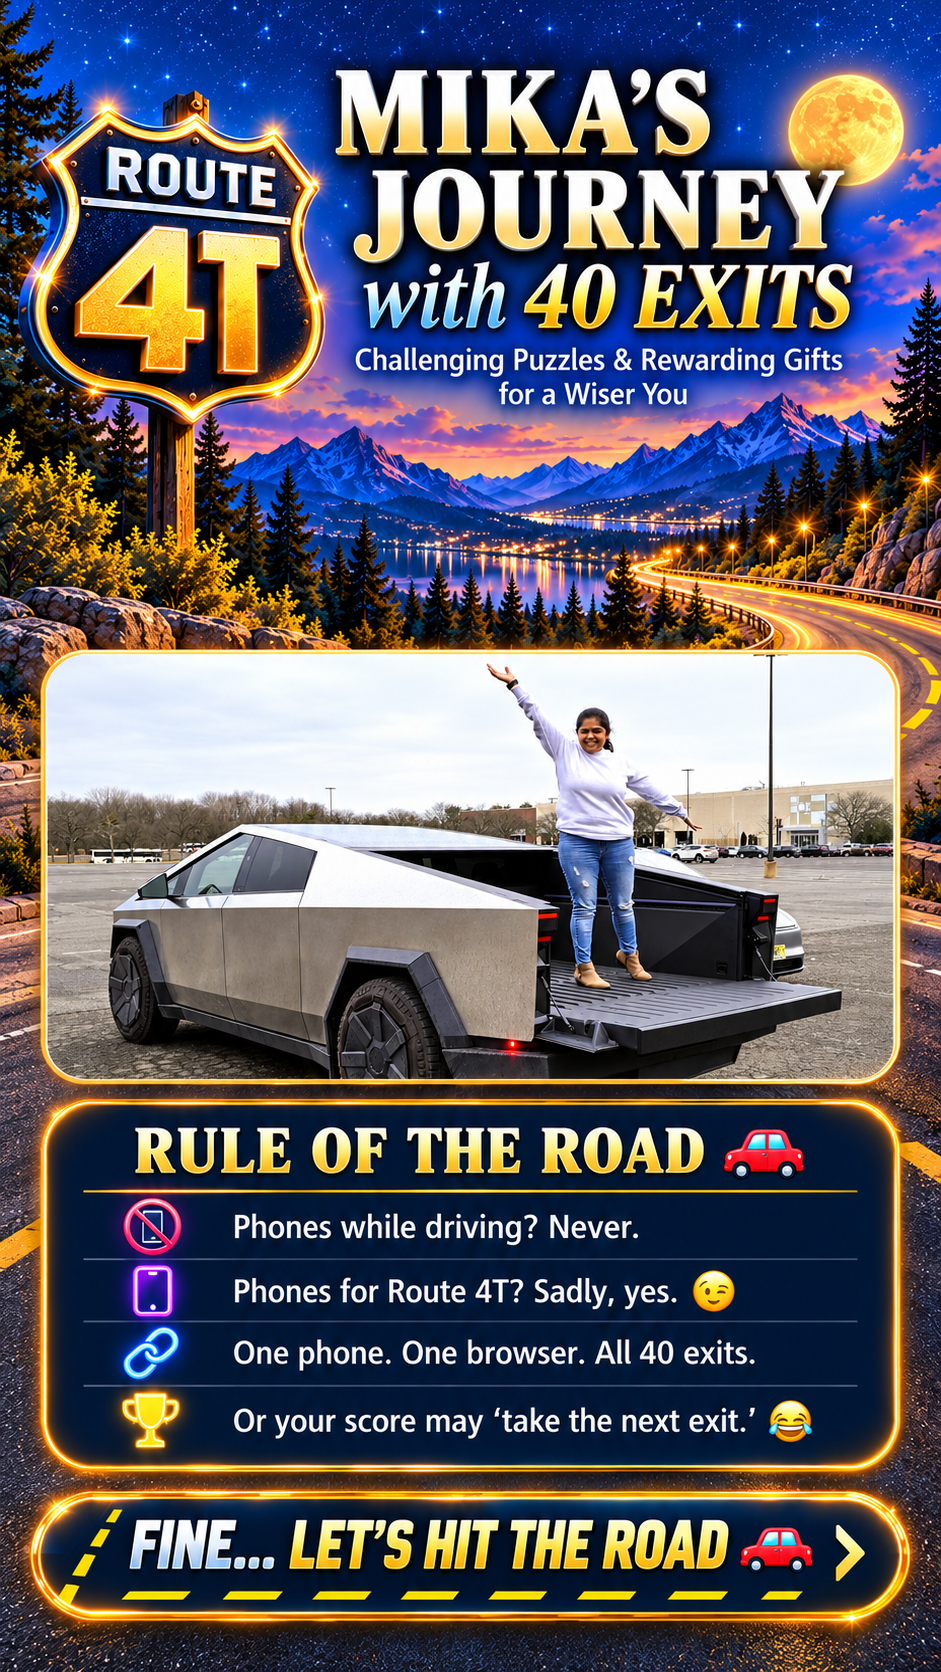
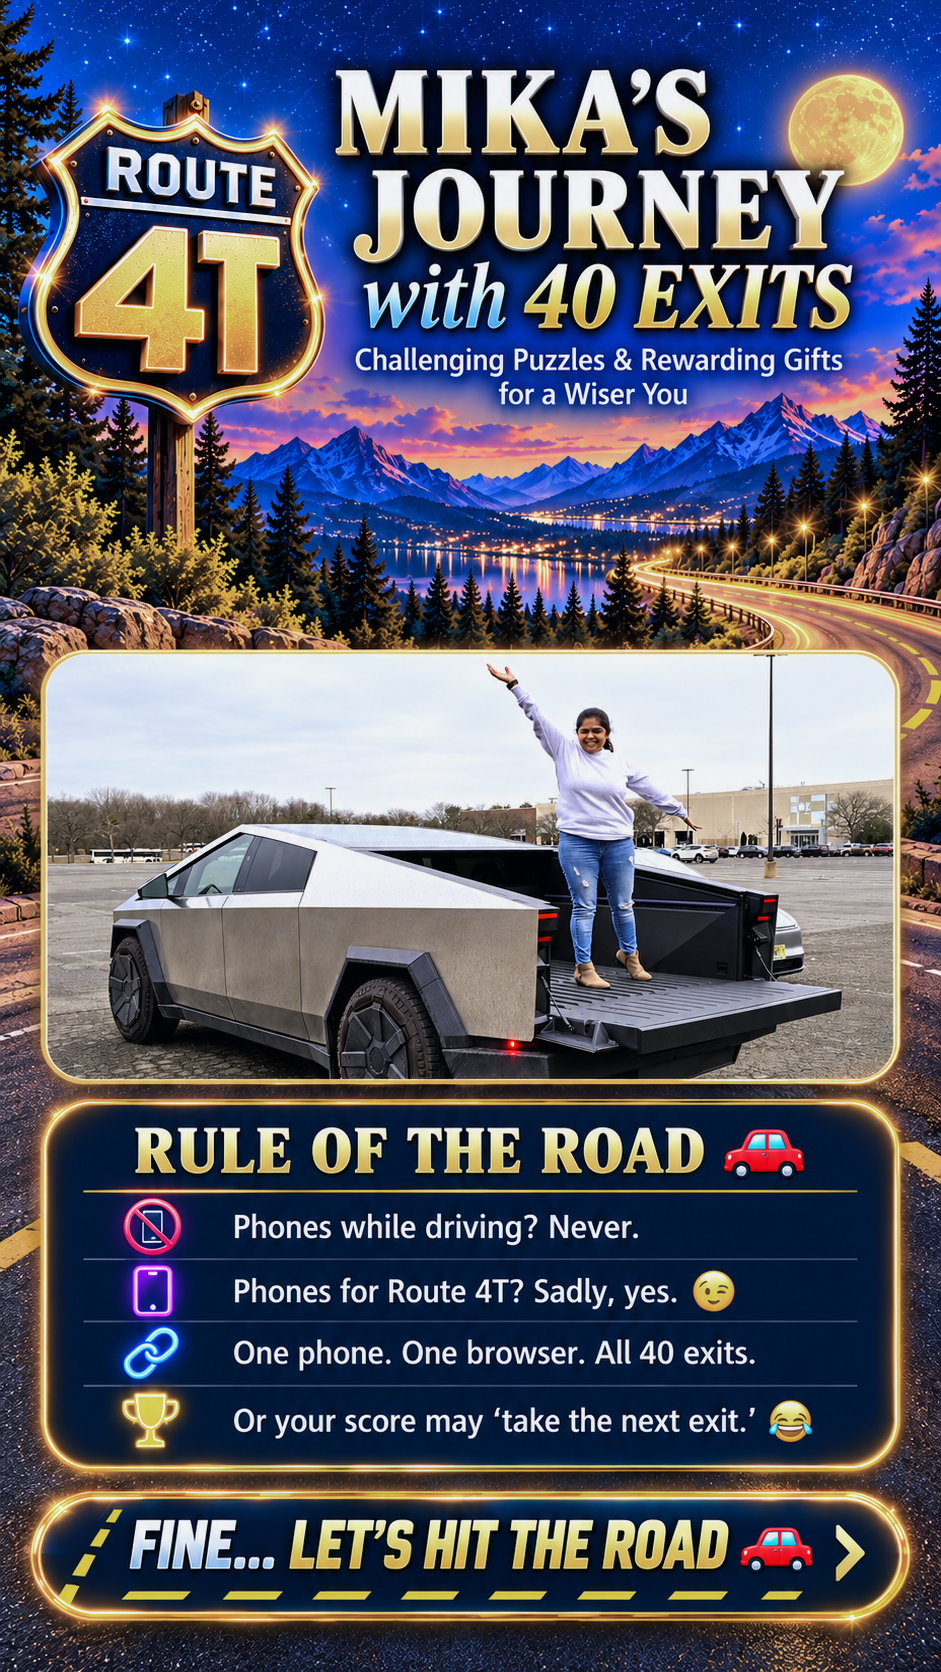
Add files via upload

diff --git a/app.js b/app.js
@@ -1,5 +1,5 @@
 
-const QA_SHOW_ALL_EXITS = true; // v2.29 QA: intentionally exposes EXIT 0–40 for full production-URL testing. Disable for launch.
+const QA_SHOW_ALL_EXITS = true; // v2.30 QA: intentionally exposes EXIT 0–40 for full production-URL testing. Disable for launch.
 const MAX_ATTEMPTS = 3;
 const FINAL_EXIT = 40;
 
@@ -823,11 +823,11 @@ function positionKeyboardUI(){
      p.style.top=(viewportTop+safeGap)+"px";
      requestAnimationFrame(()=>{
        const h=Math.min(p.offsetHeight,maxH);
-       const isFirstWrong=p.dataset.mode==="wrong" && p.dataset.attempt==="1";
-       // v2.29: attempt 1 no longer depends on the keyboard's final height.
-       // Anchor it to the TOP of the browser's currently visible viewport, which
-       // remains reachable across Samsung Internet/Chrome and Samsung/Gboard/SwiftKey.
-       const top=isFirstWrong
+       const isWrong=p.dataset.mode==="wrong";
+       // v2.30: ALL wrong-answer messages use one fixed, keyboard-safe position.
+       // Green, Purple and Red are anchored to the TOP of the browser's currently
+       // visible viewport across Samsung Internet/Chrome and common Android keyboards.
+       const top=isWrong
          ? viewportTop+safeGap
          : Math.max(viewportTop+safeGap,viewportTop+viewportHeight-h-safeGap);
        const currentTop=parseFloat(p.style.top);
@@ -1003,9 +1003,9 @@ function showWrongPopup(message,remaining){
  if(backdrop){backdrop.classList.add("show");backdrop.setAttribute("aria-hidden","false");}
  p.classList.add("show");
  p.setAttribute("aria-hidden","false");
- // Keep the popup hidden until its final position is known. Attempts 2/3
- // retain the stable v2.7/v2.14 sequence. Attempt 1 gets only a quiet-period
- // stabilization before reveal; its geometry/placement engine is otherwise the same.
+ // Keep the popup hidden until its final position is known. All three wrong-answer
+ // attempts now share the same top-of-visible-viewport geometry. Attempt 1 retains
+ // the extra quiet-period stabilization because it occurs during the initial keyboard session.
  p.style.visibility="hidden";
  p.style.opacity="0";
  const attemptNumber=MAX_ATTEMPTS-remaining;
@@ -1581,8 +1581,31 @@ function openBirthdayFinale(){
 }
 
 $("surrenderSurpriseBtn").onclick=()=>currentDay.day===FINAL_EXIT?openBirthdayFinale():openSurprise(false);
-$("watchBtn").onclick=()=>{if(hasVideo()) window.open(currentDay.video,"_blank","noopener,noreferrer")};
-$("birthdaySurpriseBtn").onclick=()=>{if(hasVideo()) window.open(currentDay.video,"_blank","noopener,noreferrer")};
+function youtubeVideoId(url){
+ try{
+   const u=new URL(url);
+   if(u.hostname==="youtu.be") return u.pathname.split("/").filter(Boolean)[0]||"";
+   const parts=u.pathname.split("/").filter(Boolean);
+   if(parts[0]==="shorts" || parts[0]==="embed") return parts[1]||"";
+   return u.searchParams.get("v")||"";
+ }catch{return ""}
+}
+function openYouTubePreferred(url){
+ if(!url) return;
+ const isAndroid=/Android/i.test(navigator.userAgent||"");
+ if(isAndroid){
+   const id=youtubeVideoId(url);
+   const fallback=id?`https://www.youtube.com/watch?v=${encodeURIComponent(id)}`:url;
+   const target=id?`www.youtube.com/watch?v=${encodeURIComponent(id)}`:url.replace(/^https?:\/\//i,"");
+   // Samsung Internet/Chrome: explicitly request the installed YouTube package.
+   // Android handles the browser fallback if the app is unavailable or app-links are disabled.
+   window.location.href=`intent://${target}#Intent;scheme=https;package=com.google.android.youtube;S.browser_fallback_url=${encodeURIComponent(fallback)};end`;
+   return;
+ }
+ window.open(url,"_blank","noopener,noreferrer");
+}
+$("watchBtn").onclick=()=>{if(hasVideo()) openYouTubePreferred(currentDay.video)};
+$("birthdaySurpriseBtn").onclick=()=>{if(hasVideo()) openYouTubePreferred(currentDay.video)};
 document.querySelectorAll("[data-home]").forEach(b=>b.onclick=e=>{
  if(wrongPopupAwaitingAck || (isLikelyPhone() && (Date.now()<mobileSuccessGuardUntil || Date.now()<mobileWrongAckGuardUntil))){
    e.preventDefault();e.stopPropagation();return;
@@ -1620,7 +1643,7 @@ show("welcome");
 if(navigator.storage?.persist) navigator.storage.persist().catch(()=>{});
 
 if("serviceWorker" in navigator){
- window.addEventListener("load",()=>navigator.serviceWorker.register("./sw.js?v=229").catch(()=>{}));
+ window.addEventListener("load",()=>navigator.serviceWorker.register("./sw.js?v=230").catch(()=>{}));
 }
 
 function syncDesktopFrame(){

diff --git a/styles.css b/styles.css
@@ -1909,3 +1909,109 @@ body.welcome-active .app-shell{
     background:transparent!important;
   }
 }
+
+
+/* =========================================================
+   ROUTE 4T v2.30 — Samsung QA refinement only
+   - clearer welcome ENTER control, cooler welcome palette
+   - all three wrong-answer popups share the same top anchor
+   - slightly more compact mobile puzzle/question cards
+   ========================================================= */
+
+/* Tone the poster artwork down slightly; the untouched Mika/Cybertruck overlay
+   remains above this layer and is not filtered. */
+.welcome-poster-bg{
+  filter:saturate(.94) brightness(.98) contrast(1.01)!important;
+}
+
+/* Make the live hit-area unmistakably look and feel like an actual button.
+   It intentionally covers the baked poster button while leaving the scenic
+   background and Rule of the Road artwork intact. */
+.welcome-poster-enter{
+  left:5.0%!important;
+  right:5.0%!important;
+  bottom:2.55%!important;
+  height:8.85%!important;
+  display:flex!important;
+  align-items:center!important;
+  justify-content:center!important;
+  gap:10px!important;
+  padding:0 48px 0 22px!important;
+  border:3px solid #8ed5ff!important;
+  border-radius:999px!important;
+  background:linear-gradient(180deg,rgba(22,76,126,.98),rgba(4,31,69,.99))!important;
+  color:#f8fbff!important;
+  box-shadow:
+    0 7px 0 #03172f,
+    0 13px 26px rgba(0,0,0,.42),
+    0 0 0 2px rgba(255,255,255,.10) inset,
+    0 0 14px rgba(82,184,255,.38)!important;
+  font-family:Impact,"Arial Narrow",system-ui,sans-serif!important;
+  font-size:clamp(18px,5.2vw,27px)!important;
+  font-style:italic!important;
+  font-weight:900!important;
+  letter-spacing:.025em!important;
+  line-height:1!important;
+  text-shadow:0 2px 0 rgba(0,0,0,.42)!important;
+  transform:translateY(-2px);
+  transition:transform .08s ease,box-shadow .08s ease,filter .08s ease;
+}
+.welcome-poster-enter::before{
+  content:"";
+  position:absolute;
+  left:12%;right:12%;bottom:12%;height:3px;
+  border-radius:999px;
+  background:repeating-linear-gradient(90deg,#dff4ff 0 24px,transparent 24px 39px);
+  opacity:.70;
+  pointer-events:none;
+}
+.welcome-enter-label{position:relative;z-index:1;white-space:nowrap}
+.welcome-enter-arrow{
+  position:absolute;right:17px;top:50%;z-index:1;
+  transform:translateY(-53%);
+  width:34px;height:34px;border-radius:50%;
+  display:grid;place-items:center;
+  background:#e9f7ff;color:#062f5e;
+  font-family:Arial,sans-serif;font-style:normal;font-size:35px;font-weight:900;line-height:.8;
+  box-shadow:0 2px 8px rgba(0,0,0,.28);
+}
+.welcome-poster-enter:active{
+  transform:translateY(4px)!important;
+  box-shadow:0 2px 0 #03172f,0 6px 14px rgba(0,0,0,.34),0 0 0 2px rgba(255,255,255,.08) inset!important;
+  filter:brightness(1.08);
+}
+@media(max-width:390px){
+  .welcome-poster-enter{font-size:clamp(16px,4.9vw,20px)!important;padding-left:16px!important;padding-right:43px!important}
+  .welcome-enter-arrow{right:12px;width:30px;height:30px;font-size:31px}
+}
+
+/* All three wrong-answer colors now occupy the same keyboard-safe top slot. */
+@media(max-width:920px){
+  .wrong-answer-popover[data-mode="wrong"]{bottom:auto!important}
+}
+
+/* Slightly tighter puzzle presentation on phones only. Desktop/laptop stays unchanged. */
+@media(max-width:620px){
+  #puzzle .puzzle-card{
+    width:96%!important;
+    padding:16px 13px!important;
+    margin:10px auto 11px!important;
+  }
+  #puzzle .card-label{
+    margin-bottom:10px!important;
+    font-size:10px!important;
+    letter-spacing:.06em!important;
+  }
+  #puzzle .question{
+    max-width:28em!important;
+    font-size:clamp(16px,4.35vw,18.5px)!important;
+    line-height:1.42!important;
+  }
+  #puzzle .question .gap{height:.65em!important}
+  #puzzle .question-media{
+    width:92%!important;
+    max-width:430px!important;
+    margin-bottom:12px!important;
+    border-radius:12px!important;
+  }
+}

diff --git a/index.html b/index.html
@@ -6,7 +6,7 @@
 <meta name="theme-color" content="#0d1422">
 <title>ROUTE 4T · MIKA'S JOURNEY</title>
 <link rel="manifest" href="manifest.webmanifest">
-<link rel="stylesheet" href="styles.css?v=229">
+<link rel="stylesheet" href="styles.css?v=230">
 </head>
 <body>
 <div class="stars" aria-hidden="true"></div>
@@ -22,7 +22,10 @@
       <h2>Rule of the Road</h2>
       <p>Phones while driving? Never. Phones for Route 4T? Sadly, yes. One phone. One browser. All 40 exits. Or your score may take the next exit.</p>
     </div>
-    <button id="enterRouteMobile" class="welcome-poster-enter" type="button" aria-label="Fine, let’s hit the road"></button>
+    <button id="enterRouteMobile" class="welcome-poster-enter" type="button" aria-label="Fine, let’s hit the road">
+      <span class="welcome-enter-label">FINE… LET’S HIT THE ROAD 🚗</span>
+      <span class="welcome-enter-arrow" aria-hidden="true">›</span>
+    </button>
   </div>
 </section>
 
@@ -162,6 +165,6 @@
 </section>
 
 </main>
-<script src="app.js?v=229"></script>
+<script src="app.js?v=230"></script>
 </body>
 </html>

diff --git a/sw.js b/sw.js
@@ -1,5 +1,5 @@
-const CACHE='mikas-40-exits-v229';
-const ASSETS=['./','./index.html','./styles.css?v=229','./app.js?v=229','./manifest.webmanifest','./icon-192.png','./icon-512.png','./route4t-header.png','./welcome-mika.jpg','./welcome-top.png','./welcome-poster.png'];
+const CACHE='mikas-40-exits-v230';
+const ASSETS=['./','./index.html','./styles.css?v=230','./app.js?v=230','./manifest.webmanifest','./icon-192.png','./icon-512.png','./route4t-header.png','./welcome-mika.jpg','./welcome-top.png','./welcome-poster.png'];
 
 self.addEventListener('install',event=>{
   self.skipWaiting();

diff --git a/README.md b/README.md
@@ -1,28 +1,23 @@
-# Route 4T — v2.29 SAMSUNG-MOBILE POPUP QA BUILD
+# Route 4T — v2.30 SAMSUNG-MOBILE REFINEMENT QA BUILD
 
-Built directly from v2.28. Puzzle data, scoring, storage keys, answer validation,
-surrender logic, date logic, and all-exits QA visibility are otherwise unchanged.
+Built directly from v2.29. All puzzle/YT content, scoring, storage keys, answer
+validation, surrender flow, date logic, and all-exits QA visibility are carried forward.
 
-## Surgical fixes in v2.29
-- First mobile wrong-answer popup is anchored to the TOP of the currently visible
-  browser viewport instead of depending on the keyboard's final height.
-- Uses `visualViewport` when available, with a safe fixed-top fallback.
-- After OK, an invisible 620 ms acknowledgement shield remains above the puzzle.
-- A matching global capture guard swallows delayed/synthetic pointer/click events
-  during that interval so the OK tap cannot fall through to HOME/SUBMIT.
-- Third-wrong-answer surrender transition waits until the acknowledgement shield
-  has expired, then uses the existing v2.16 surrender guard.
-- Attempts 2/3 keep the existing proven placement model.
-
-## Welcome screen carried forward
-- Uses the approved full scenic Route 4T poster as the overall welcome artwork.
-- The Cybertruck/Mika panel is overlaid with the ORIGINAL uploaded photo
-  (`20260110_103317.jpg`) copied byte-for-byte as `welcome-mika.jpg`.
-- The rendered button is a transparent live hit target; game HOME behavior is unchanged.
+## Focused v2.30 changes
+- Green, Purple, and Red wrong-answer popups now use the SAME top-of-visible-viewport
+  anchor on mobile; keyboard can remain open for all three.
+- Existing 620 ms post-OK touch shield is preserved.
+- Android YouTube buttons now explicitly request the installed YouTube app using an
+  Android intent, with a normal YouTube web URL as fallback.
+- Mobile question text/padding is reduced slightly; photo clue frame is 92% width to
+  reduce puzzle-card height while preserving the 4:3 contain/no-crop behavior.
+- Welcome page uses a cooler/less-golden poster treatment.
+- ENTER is now a real visible raised blue road-style button with press feedback.
+- The Mika/Cybertruck photo remains the original uploaded photo byte-for-byte.
 
 ## QA note
-- EXIT 0 through EXIT 40 remain visible in this QA build.
+- EXIT 0 through EXIT 40 remain visible for testing.
 - This is NOT the date-gated launch build.
-- Test priority: Samsung Internet + Samsung Keyboard, then a quick Chrome regression.
+- Priority validation: Samsung Internet + Samsung Keyboard.
 
-Cache/service-worker version: v229.
+Cache/service-worker version: v230.
